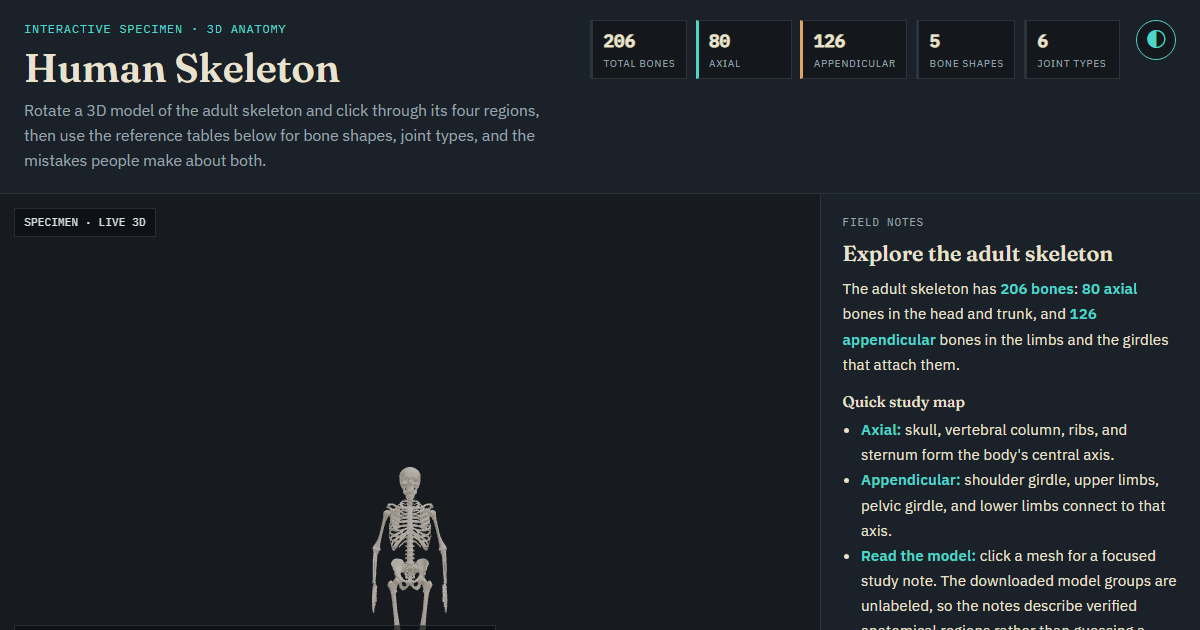
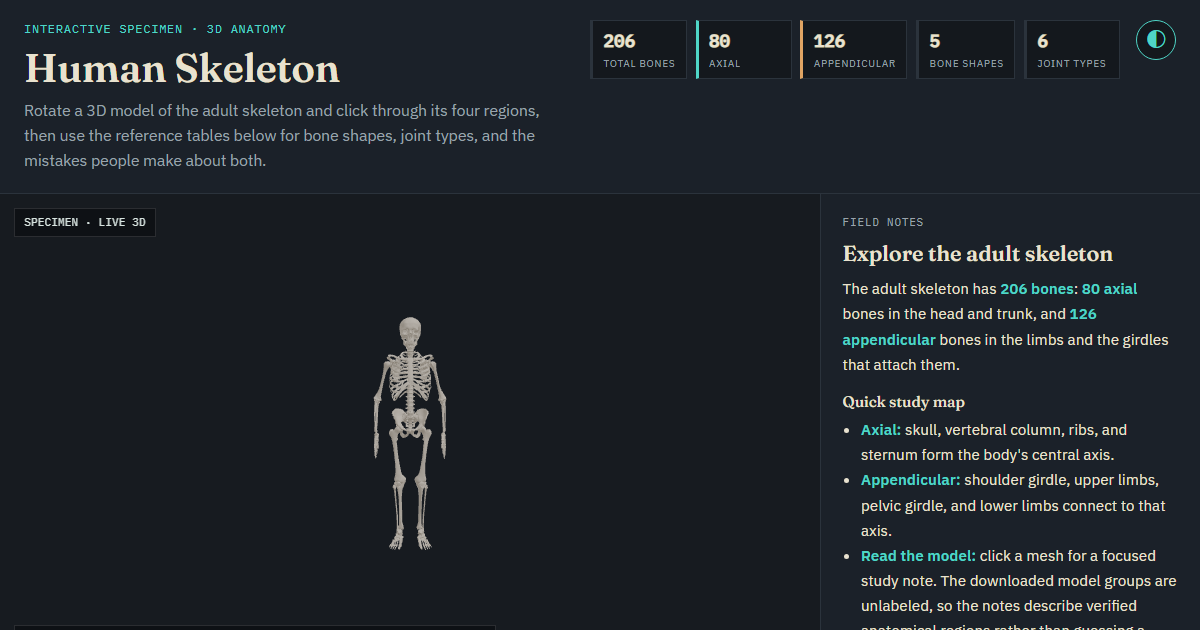
Fix vertical centering of the 3D skeleton model
The OrbitControls target was computed as model.position.y + height/2,
but model.position.y already equals the shift that dropped the
model's bottom to y=0 (-scaledBox.min.y). Adding height/2 on top of
that double-counted the shift and aimed the camera well above the
model's true center, so it consistently rendered low in the frame
with a large empty gap above. The x/z components had the same bug
(model.position.x/z instead of 0), though its effect was harder to
see since those shifts happened to be small for this model.

After re-centering, world-space center is just (0, height/2, 0) by
construction, so that's what the target is set to directly.

Changed region(s): [[0.3083, 0.5127, 0.37, 1.0]]

diff --git a/human-skeleton.html b/human-skeleton.html
@@ -463,7 +463,11 @@ footer a:hover { color: var(--scan); }
 
                     scene.add(model);
 
-                    controls.target.copy(new THREE.Vector3(model.position.x, model.position.y + scaledBox.getSize(new THREE.Vector3()).y / 2, model.position.z));
+                    // model.position already re-centers x/z to 0 and drops the bottom to y=0,
+                    // so the true world-space center is (0, height/2, 0), not model.position
+                    // offset by height/2 (that double-counted the recentering shift and aimed
+                    // the camera above the model, which is why it rendered low in the frame).
+                    controls.target.set(0, scaledBox.getSize(new THREE.Vector3()).y / 2, 0);
                     controls.update();
 
                     model.traverse((child) => {
